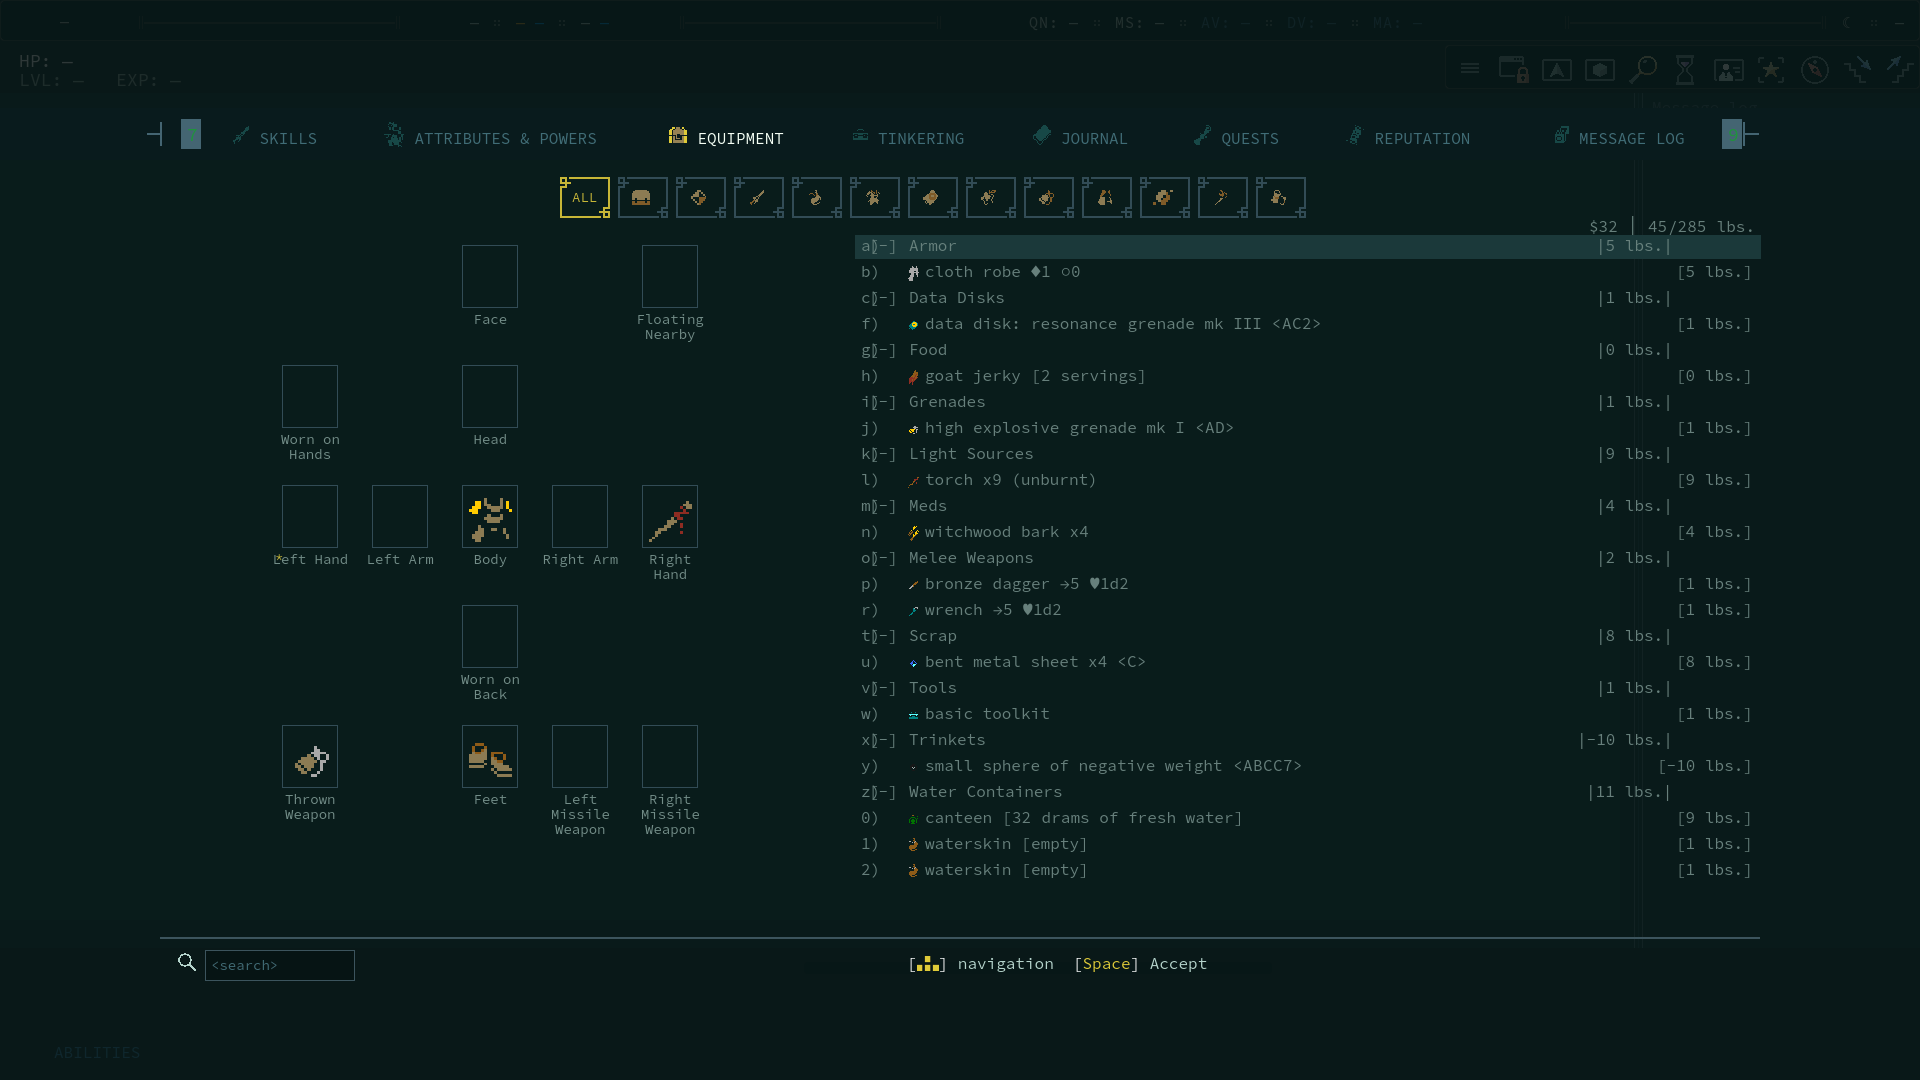
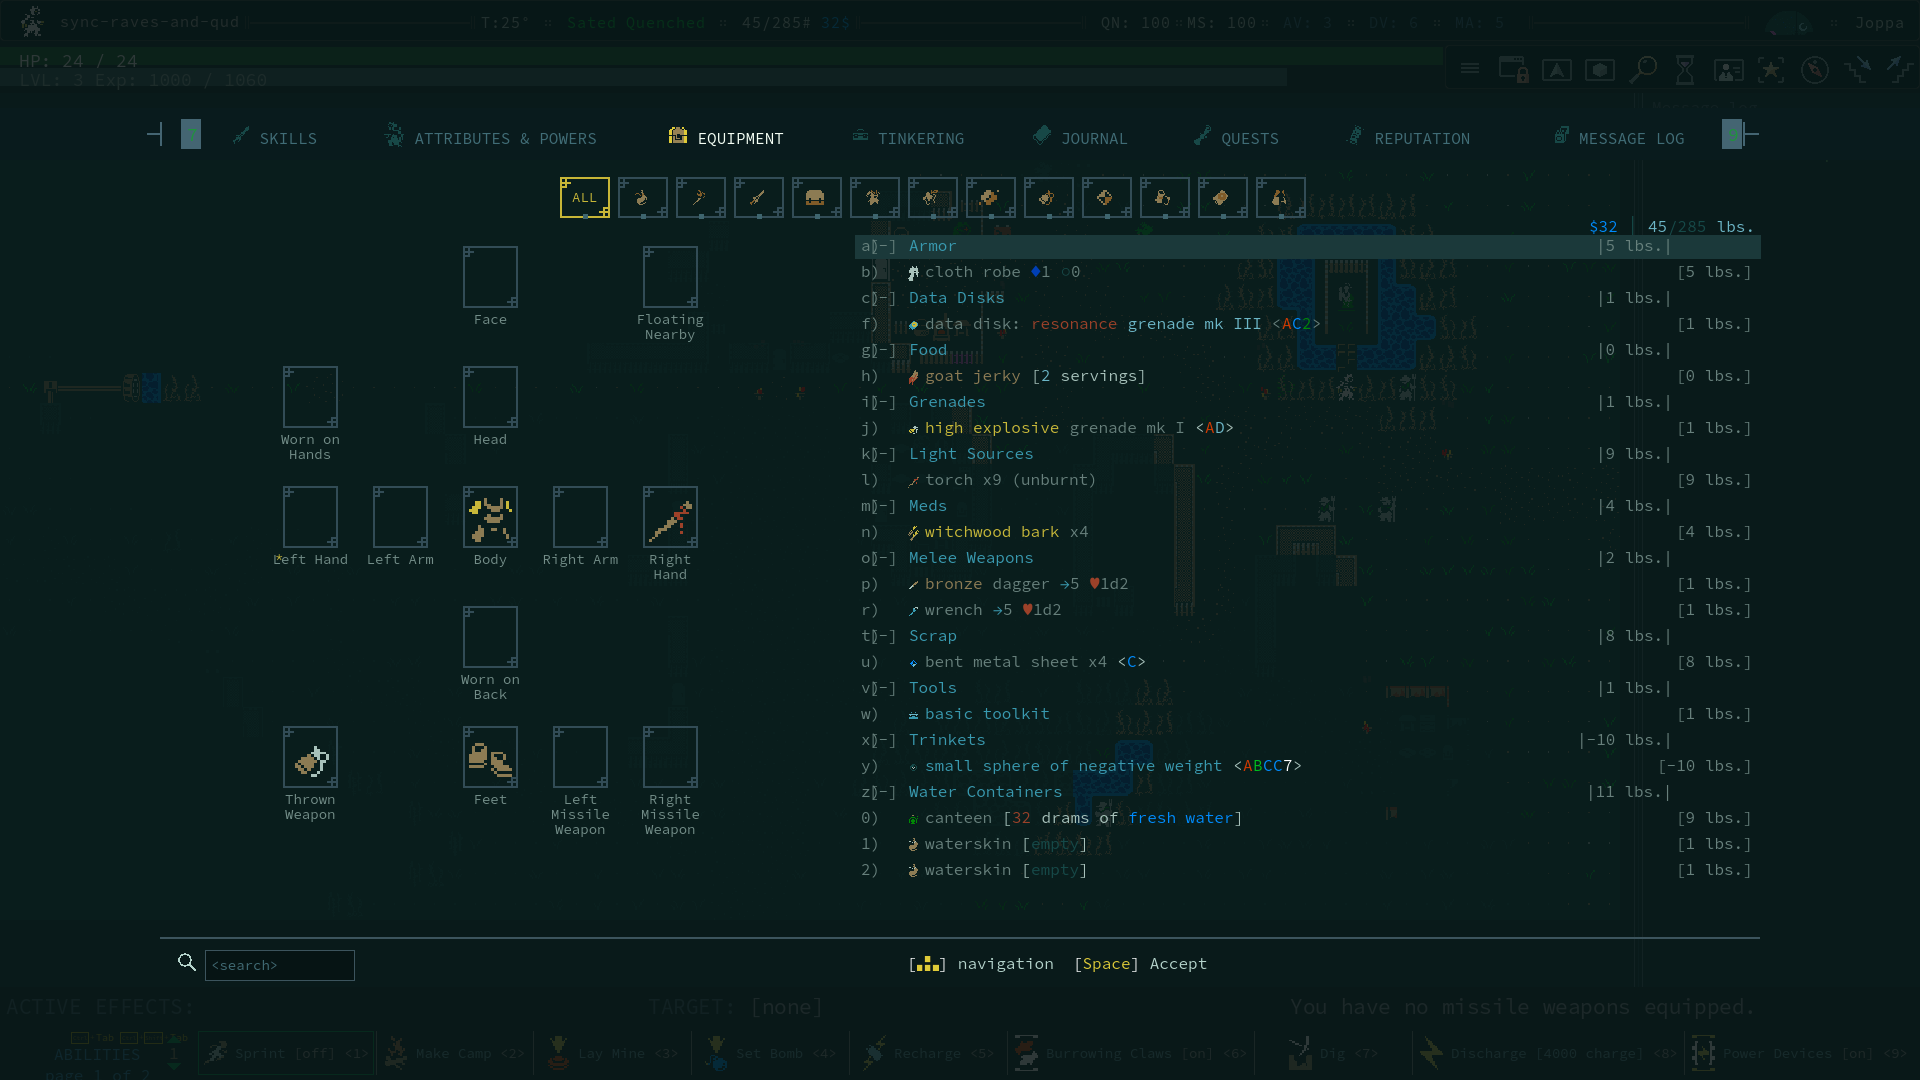
Equipment frames + strip order: four corrections from Daniel
1. TEAL KNOB. Qud's filter cells carry a small teal square straddling
   the bottom line. It was in the mask dump I took (rows 215-218) and I
   read past it. Added, centred on the bottom edge.

2. CORNERS CONNECT. I had been breaking the box edges where the corner
   loops sit, leaving them floating; in Qud the loops join both lines.
   Edges now draw full with the ornaments over them.

3. PAPER-DOLL SLOTS use the same ornamented frame, larger and without
   the knob — they were plain 1px rectangles all along.
   _draw_cell_frame(rect, col, knob=false) draws them now; doll_frame
   leaves 13.4 -> 12.3.

4. STRIP ORDER is the inventory's OWN object order (first appearance
   while walking the pack), not a name sort. Qud reads Water
   Containers, Light Sources, Melee Weapons, Tools…; my sortString
   reading gave Tools, Scrap, Melee Weapons, Water Containers.
   Removing the sort makes Raves match exactly — verified in the
   export.

Frame leaves 14.17 -> 14.14, composite 17.00 -> 16.65. Worth noting
all four were visible to the eye while the per-leaf means barely
moved: structure errors this size don't register in a pixel average.

diff --git a/mod/InventoryExporter.cs b/mod/InventoryExporter.cs
@@ -143,13 +143,16 @@ namespace RavesOfQud
             // nothing like the alphabetical category order the list itself uses.
             try
             {
-                var flat = new List<KeyValuePair<string, string>>();   // sortName -> category
-                foreach (var kv in cats)
-                    foreach (GameObject go in kv.Value)
+                var flat = new List<KeyValuePair<string, string>>();   // name -> category
+                var invOrder = p.Inventory;
+                if (invOrder != null)
+                    foreach (GameObject go in invOrder.GetObjectsDirect())
                     {
-                        string sn = "";
-                        try { sn = (go.DisplayNameOnlyStripped ?? "").ToLowerInvariant(); } catch { }
-                        flat.Add(new KeyValuePair<string, string>(sn, kv.Key));
+                        if (go == null) continue;
+                        string c2 = "Miscellaneous", n2 = "";
+                        try { c2 = go.GetInventoryCategory() ?? c2; } catch { }
+                        try { n2 = (go.DisplayNameOnlyStripped ?? "").ToLowerInvariant(); } catch { }
+                        flat.Add(new KeyValuePair<string, string>(n2, c2));
                     }
                 // EQUIPPED items count too: Qud's filter list is built from the screen's
                 // whole object list, which includes what's on the body — so a category
@@ -173,7 +176,10 @@ namespace RavesOfQud
                         }
                 }
                 catch { }
-                flat.Sort((a, b) => string.CompareOrdinal(a.Key, b.Key));
+                // NOT sorted: Qud's filter bar follows the inventory's own object order
+                // (first appearance while walking the pack), which is why its strip reads
+                // Water Containers, Light Sources, Melee Weapons, Tools… rather than any
+                // alphabetical sequence. Sorting by name produced a different order.
                 var seen = new List<string>();
                 foreach (var kv in flat)
                     if (!seen.Contains(kv.Value)) seen.Add(kv.Value);

diff --git a/mod/Protocol.cs b/mod/Protocol.cs
@@ -18,7 +18,7 @@ namespace RavesOfQud
         /// no way to tell from the outside whether the running code included a
         /// given fix. Every snapshot now says. Bump this when changing the mod.
         /// </summary>
-        public const string Build = "2026-08-04 equipped-only-ag";
+        public const string Build = "2026-08-04 invorder-ah";
 
         /// <summary>
         /// Monotonic WIRE version — bump whenever a change to the snapshot format makes a newer client

diff --git a/docs/status-screens-plan.md b/docs/status-screens-plan.md
@@ -394,3 +394,24 @@ diff is the same sampler-rounding as everywhere else.
 
 RECOMMENDATION: treat the filter strip as done. Score its leaves on cell geometry, frame, order,
 hover and select (all matched) rather than on icon pixel means.
+
+
+## Equipment frames + strip order — Daniel's corrections (2026-08-05)
+
+Four things I had wrong, all confirmed by eye before measurement agreed:
+
+1. **Teal knob.** Qud's filter cells carry a small teal square straddling the BOTTOM line. It was
+   sitting in the mask dump I took (rows 215-218) and I read past it. Added, centred on the bottom
+   edge in the hover teal.
+2. **Corner ornaments must CONNECT.** I had been BREAKING the box edges where the loops sit, leaving
+   them floating; in Qud the loops join both lines. Edges are now drawn full with the ornaments over
+   them.
+3. **Paper-doll slots use the SAME frame**, larger and WITHOUT the knob — they were plain 1px
+   rectangles. `_draw_cell_frame(rect, col, knob=false)` now draws them; doll_frame leaves 13.4 ->
+   12.3.
+4. **Strip order is the inventory's OWN object order**, not a name sort: Qud reads Water Containers,
+   Light Sources, Melee Weapons, Tools… i.e. first appearance while walking the pack. My earlier
+   sortString reading produced Tools, Scrap, Melee Weapons, Water Containers. Removing the sort makes
+   Raves match exactly.
+
+Frame leaves 14.17 -> 14.14 mean, composite 17.00 -> 16.65.
